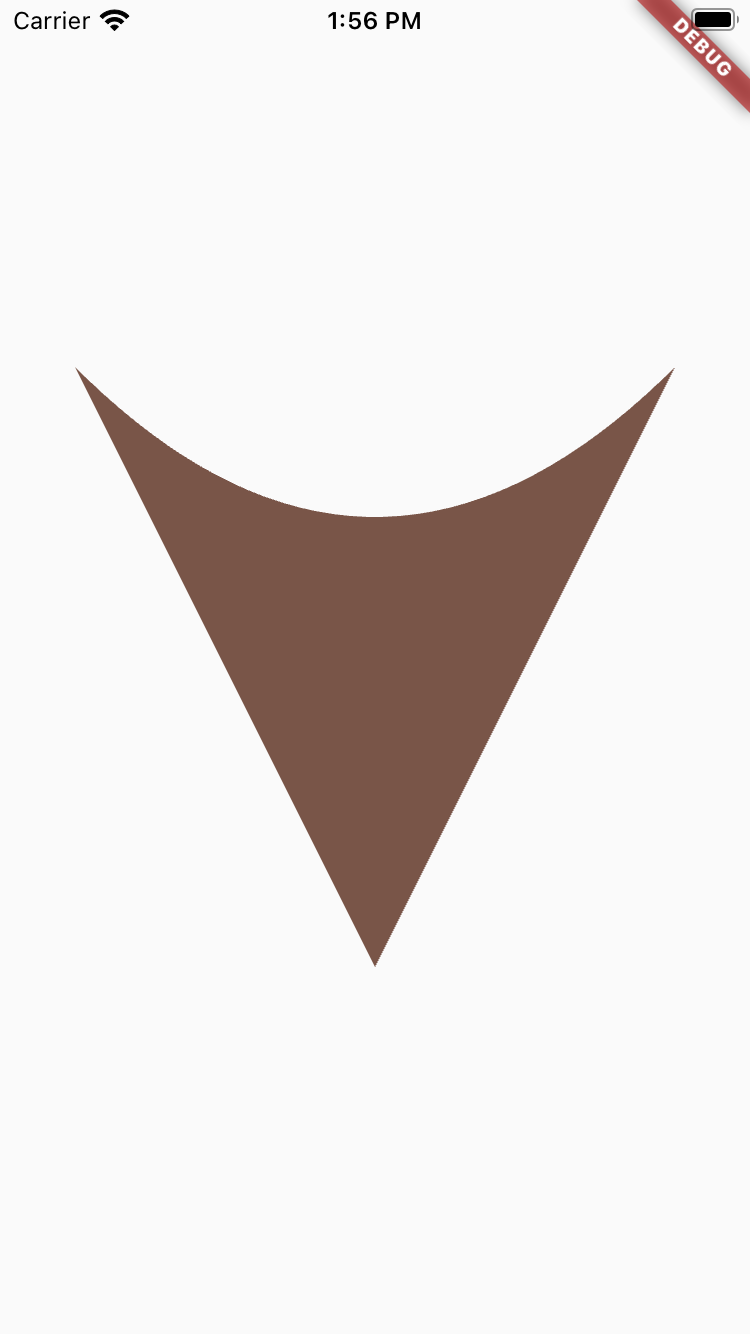
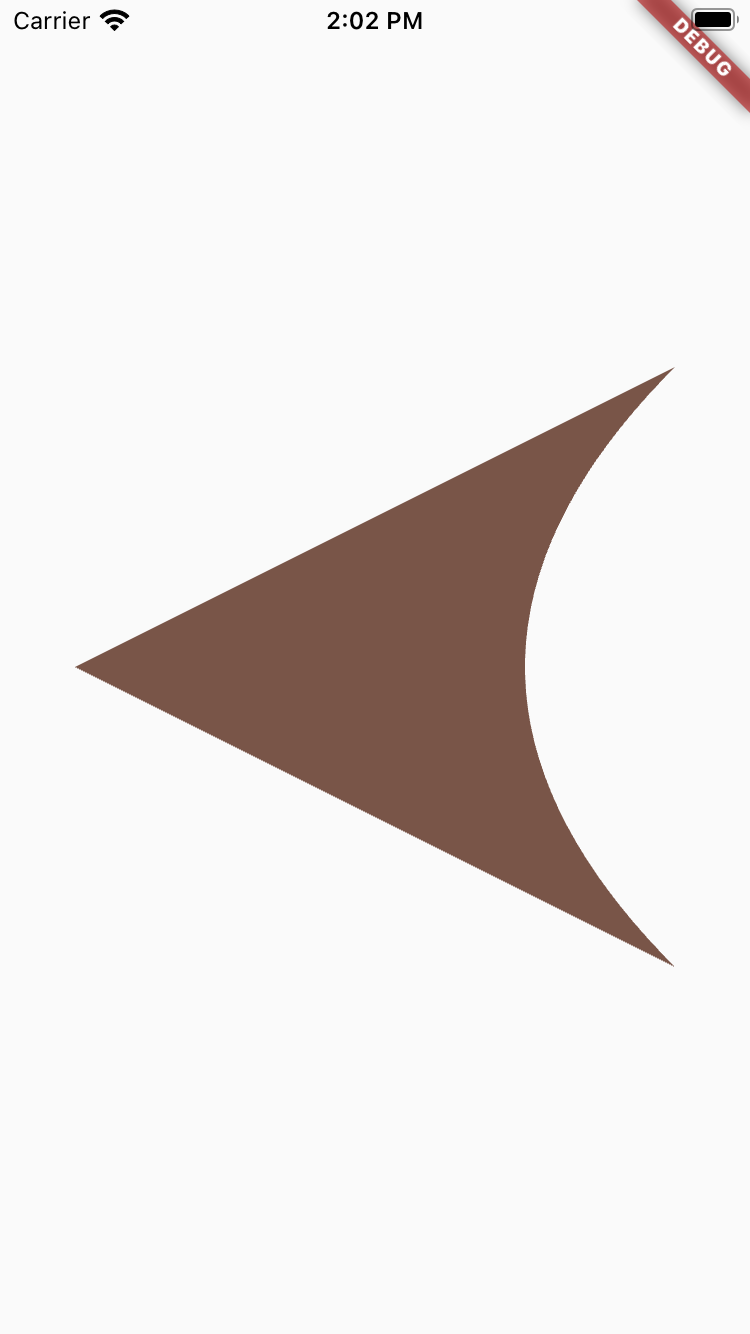
tenth commit

Changed region(s): [[0.092, 0.2766, 0.8893, 0.7376], [0.4293, 0.0, 0.5827, 0.0307], [0.8587, 0.7069, 0.8893, 0.7376]]

diff --git a/lib/screens/clipperclass.dart b/lib/screens/clipperclass.dart
@@ -19,10 +19,9 @@ class MyClipper extends CustomClipper<Path>{
   Path getClip(Size size) {
 
    Path path= Path();
-   path.lineTo(0, 0);
-   path.lineTo(size.width/2, size.height);
-    path.lineTo(size.width, 0);
-   path.quadraticBezierTo(size.width/2, size.height/2,0, 0);
+  path.moveTo(0, size.height/2);
+  path.lineTo(size.width, size.height);
+  path.quadraticBezierTo(size.width/2, size.height/2, size.width, 0);
 
    path.close();
    return path;
